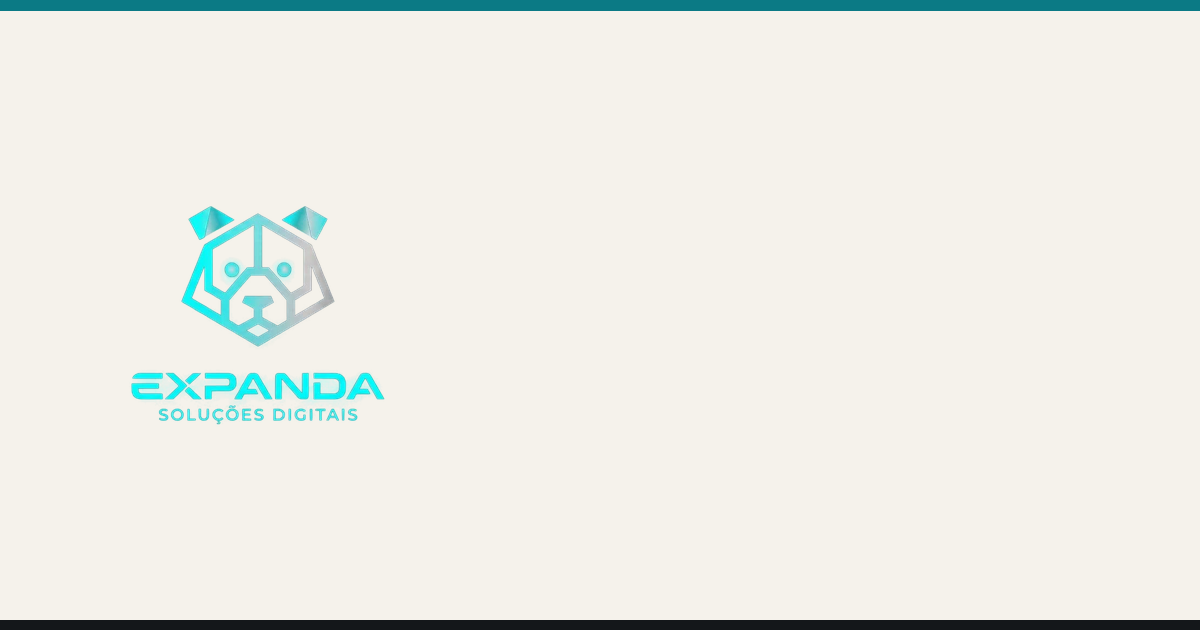
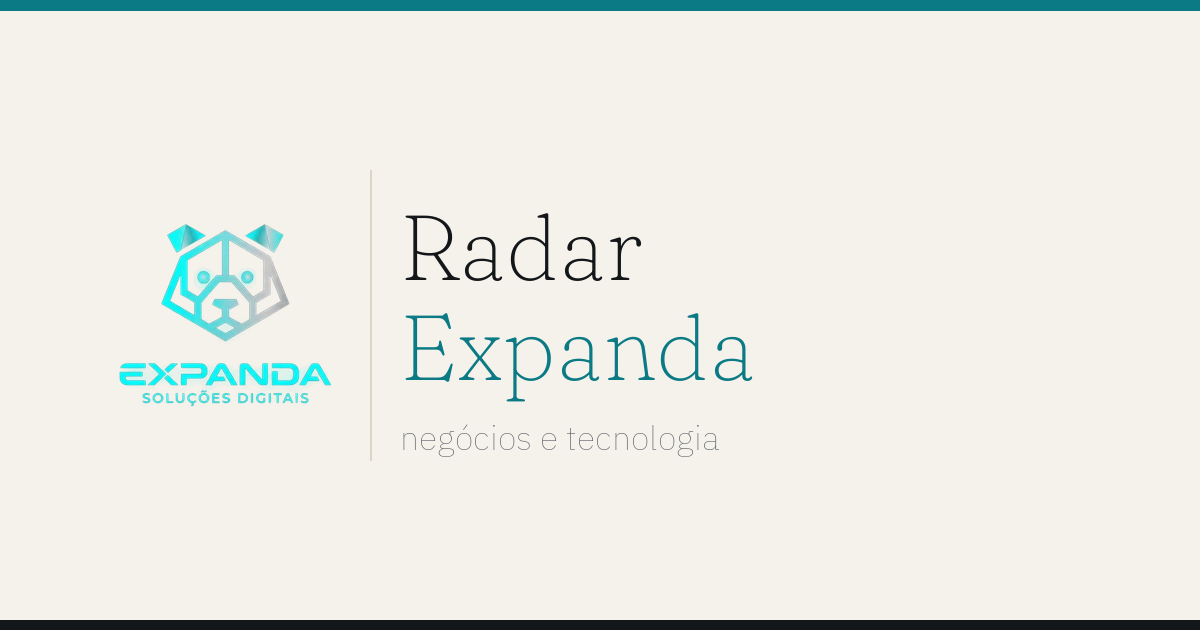
Canonica com barra final, imagem de compartilhamento com nome; materia de TESTE (sera apagada)

diff --git a/src/content/materias/2026-10-24-teste-de-formato-do-radar.md b/src/content/materias/2026-10-24-teste-de-formato-do-radar.md
@@ -1,0 +1,26 @@
+---
+titulo: "TESTE: matéria de formato do Radar Expanda (será apagada)"
+linha_fina: "Texto fictício só para conferir o desenho da página de matéria. Nada aqui é notícia."
+data: 2026-10-24T13:05:00Z
+atualizado: 2026-10-24T13:40:00Z
+categoria: ia
+fontes:
+  - nome: "Fonte de teste A"
+    url: "https://example.com/a"
+  - nome: "Fonte de teste B"
+    url: "https://example.com/b"
+capa: "/capas/2026/10/teste-de-formato-do-radar.webp"
+capa_alt: "Arte de teste com barras em ciano"
+angulo: "Frase de teste do bloco que mostra o que muda para a empresa do leitor."
+pauta: 0
+---
+## O fato
+Parágrafo de teste do bloco do fato, em poucas linhas, só com o que as fontes confirmam.
+
+## O contexto
+Parágrafo de teste do contexto: por que isso apareceu agora, quem já usa e quanto custa, quando a fonte diz.
+
+Segundo parágrafo de teste, para ver o espaçamento entre parágrafos.
+
+## O que muda para a sua empresa
+O passo prático para o dono do negócio, em 2 ou 3 linhas. Texto de teste.
